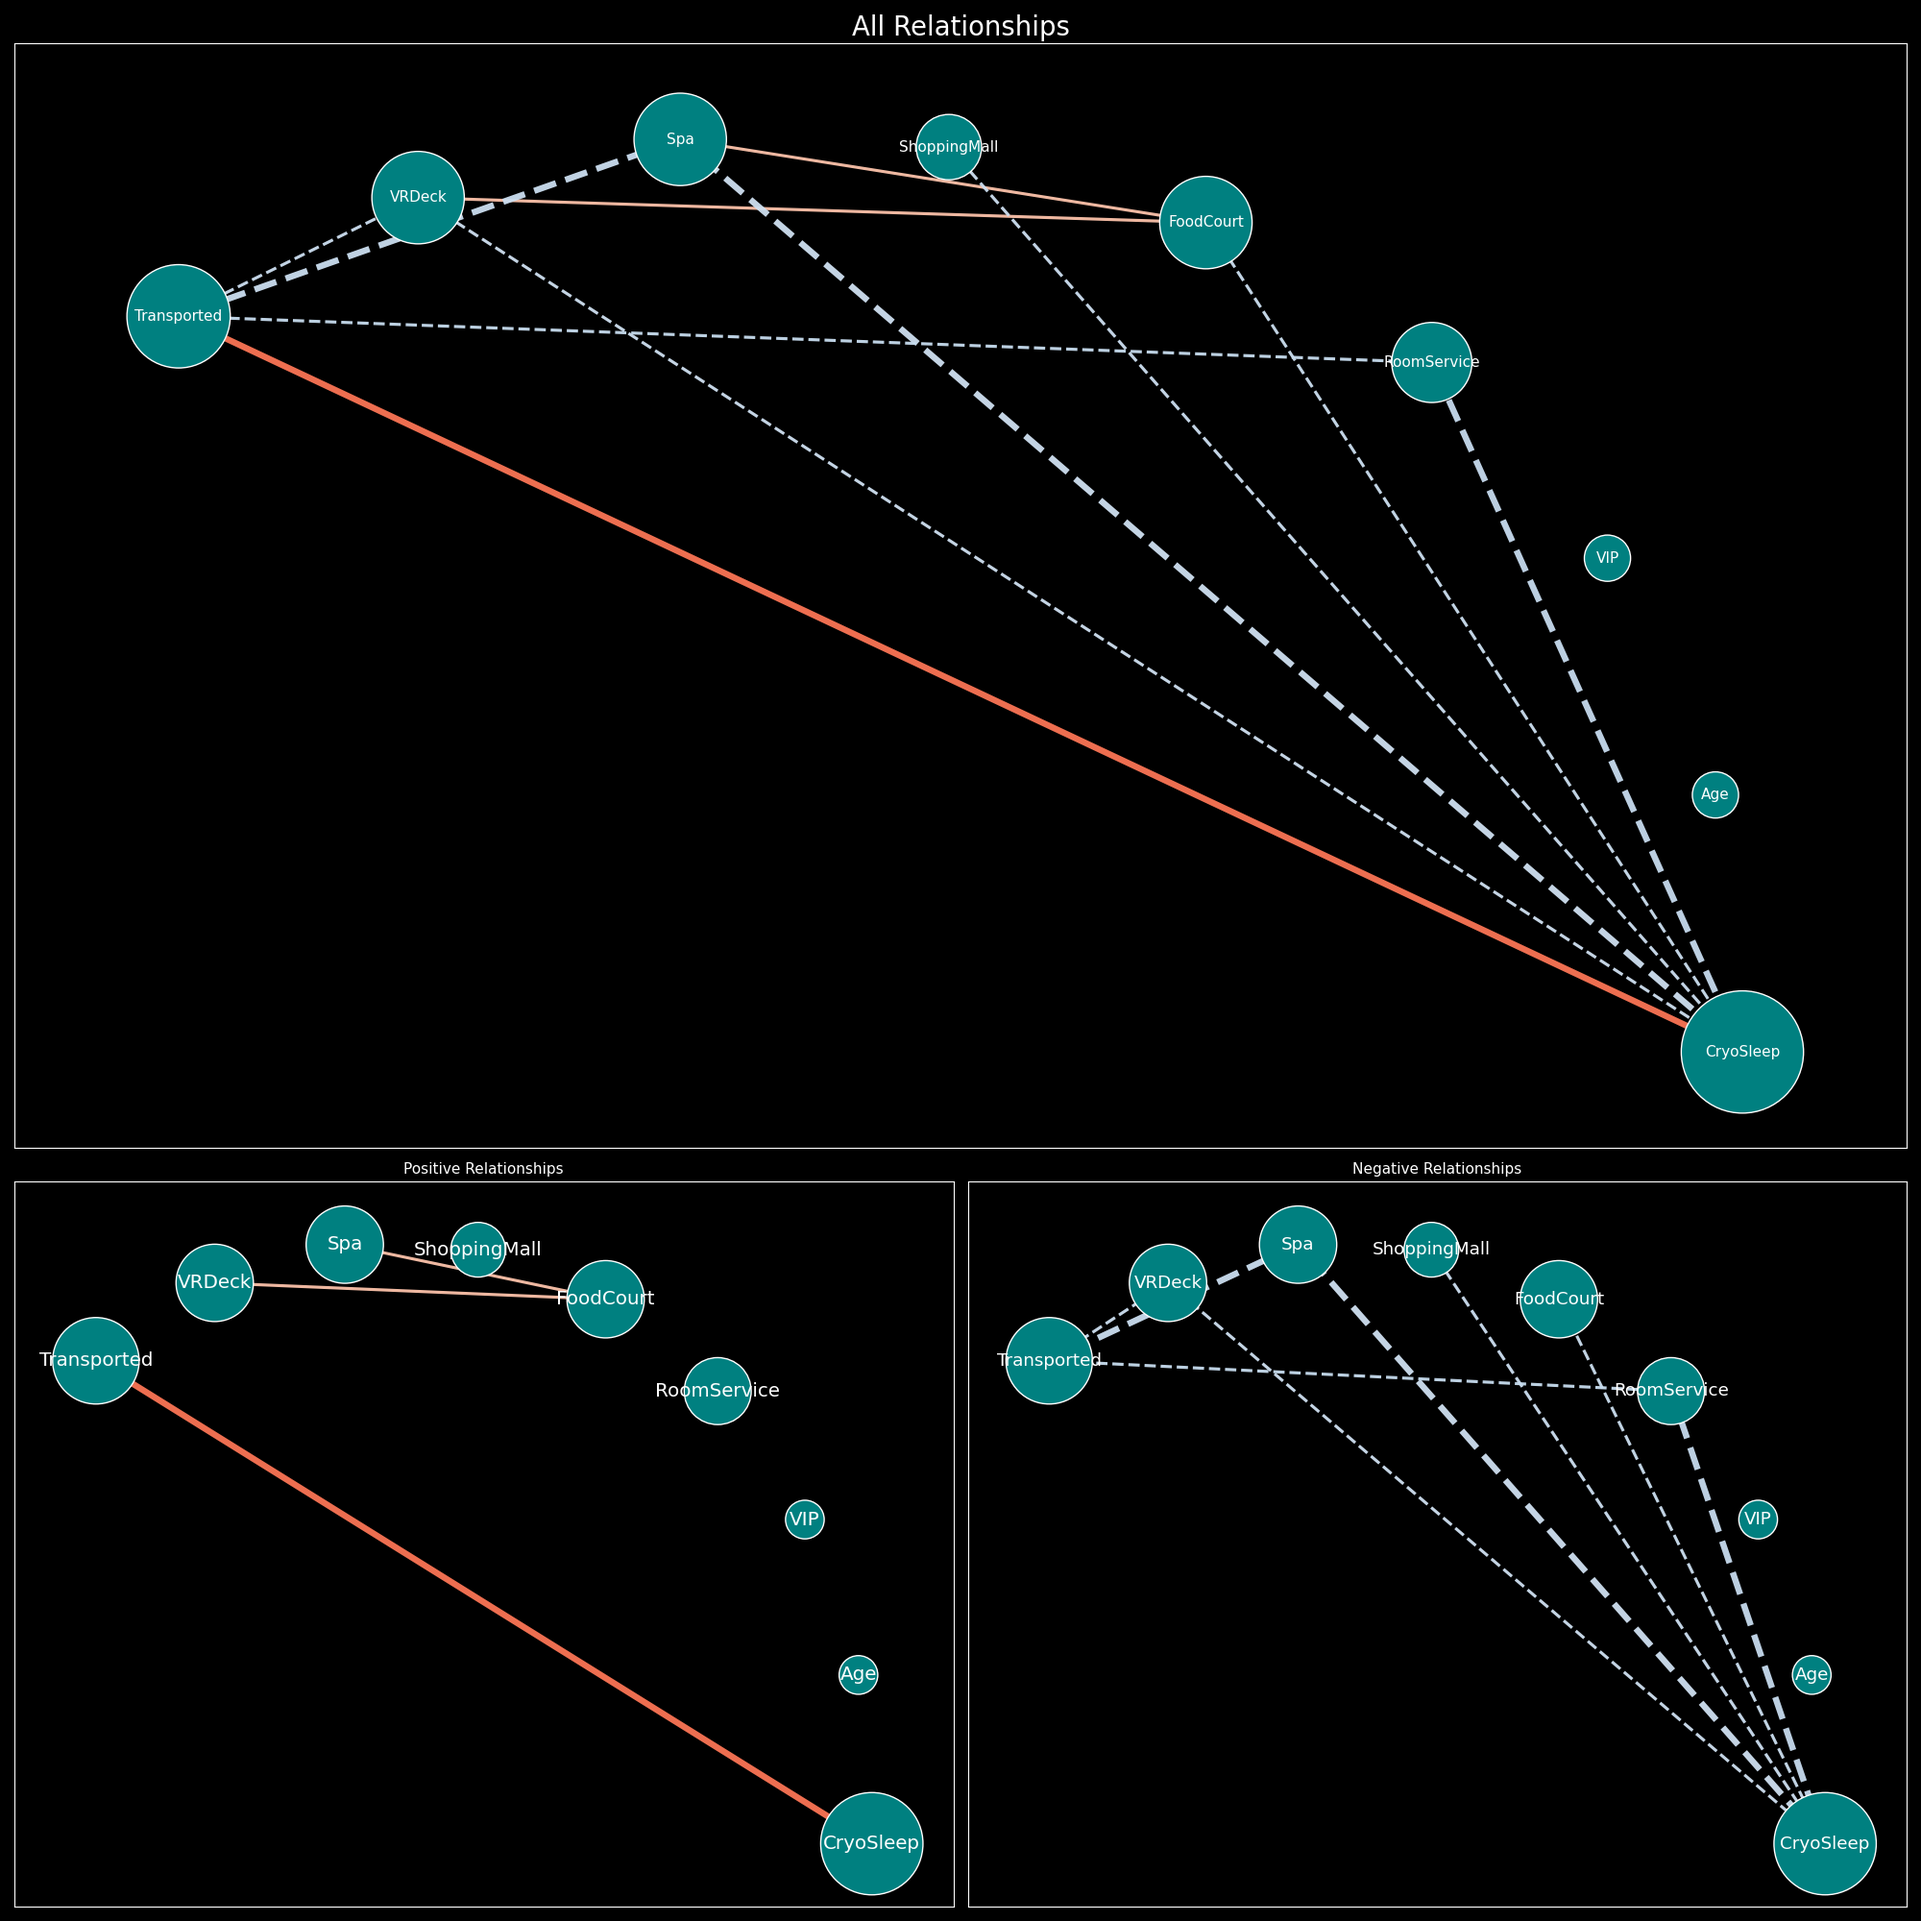
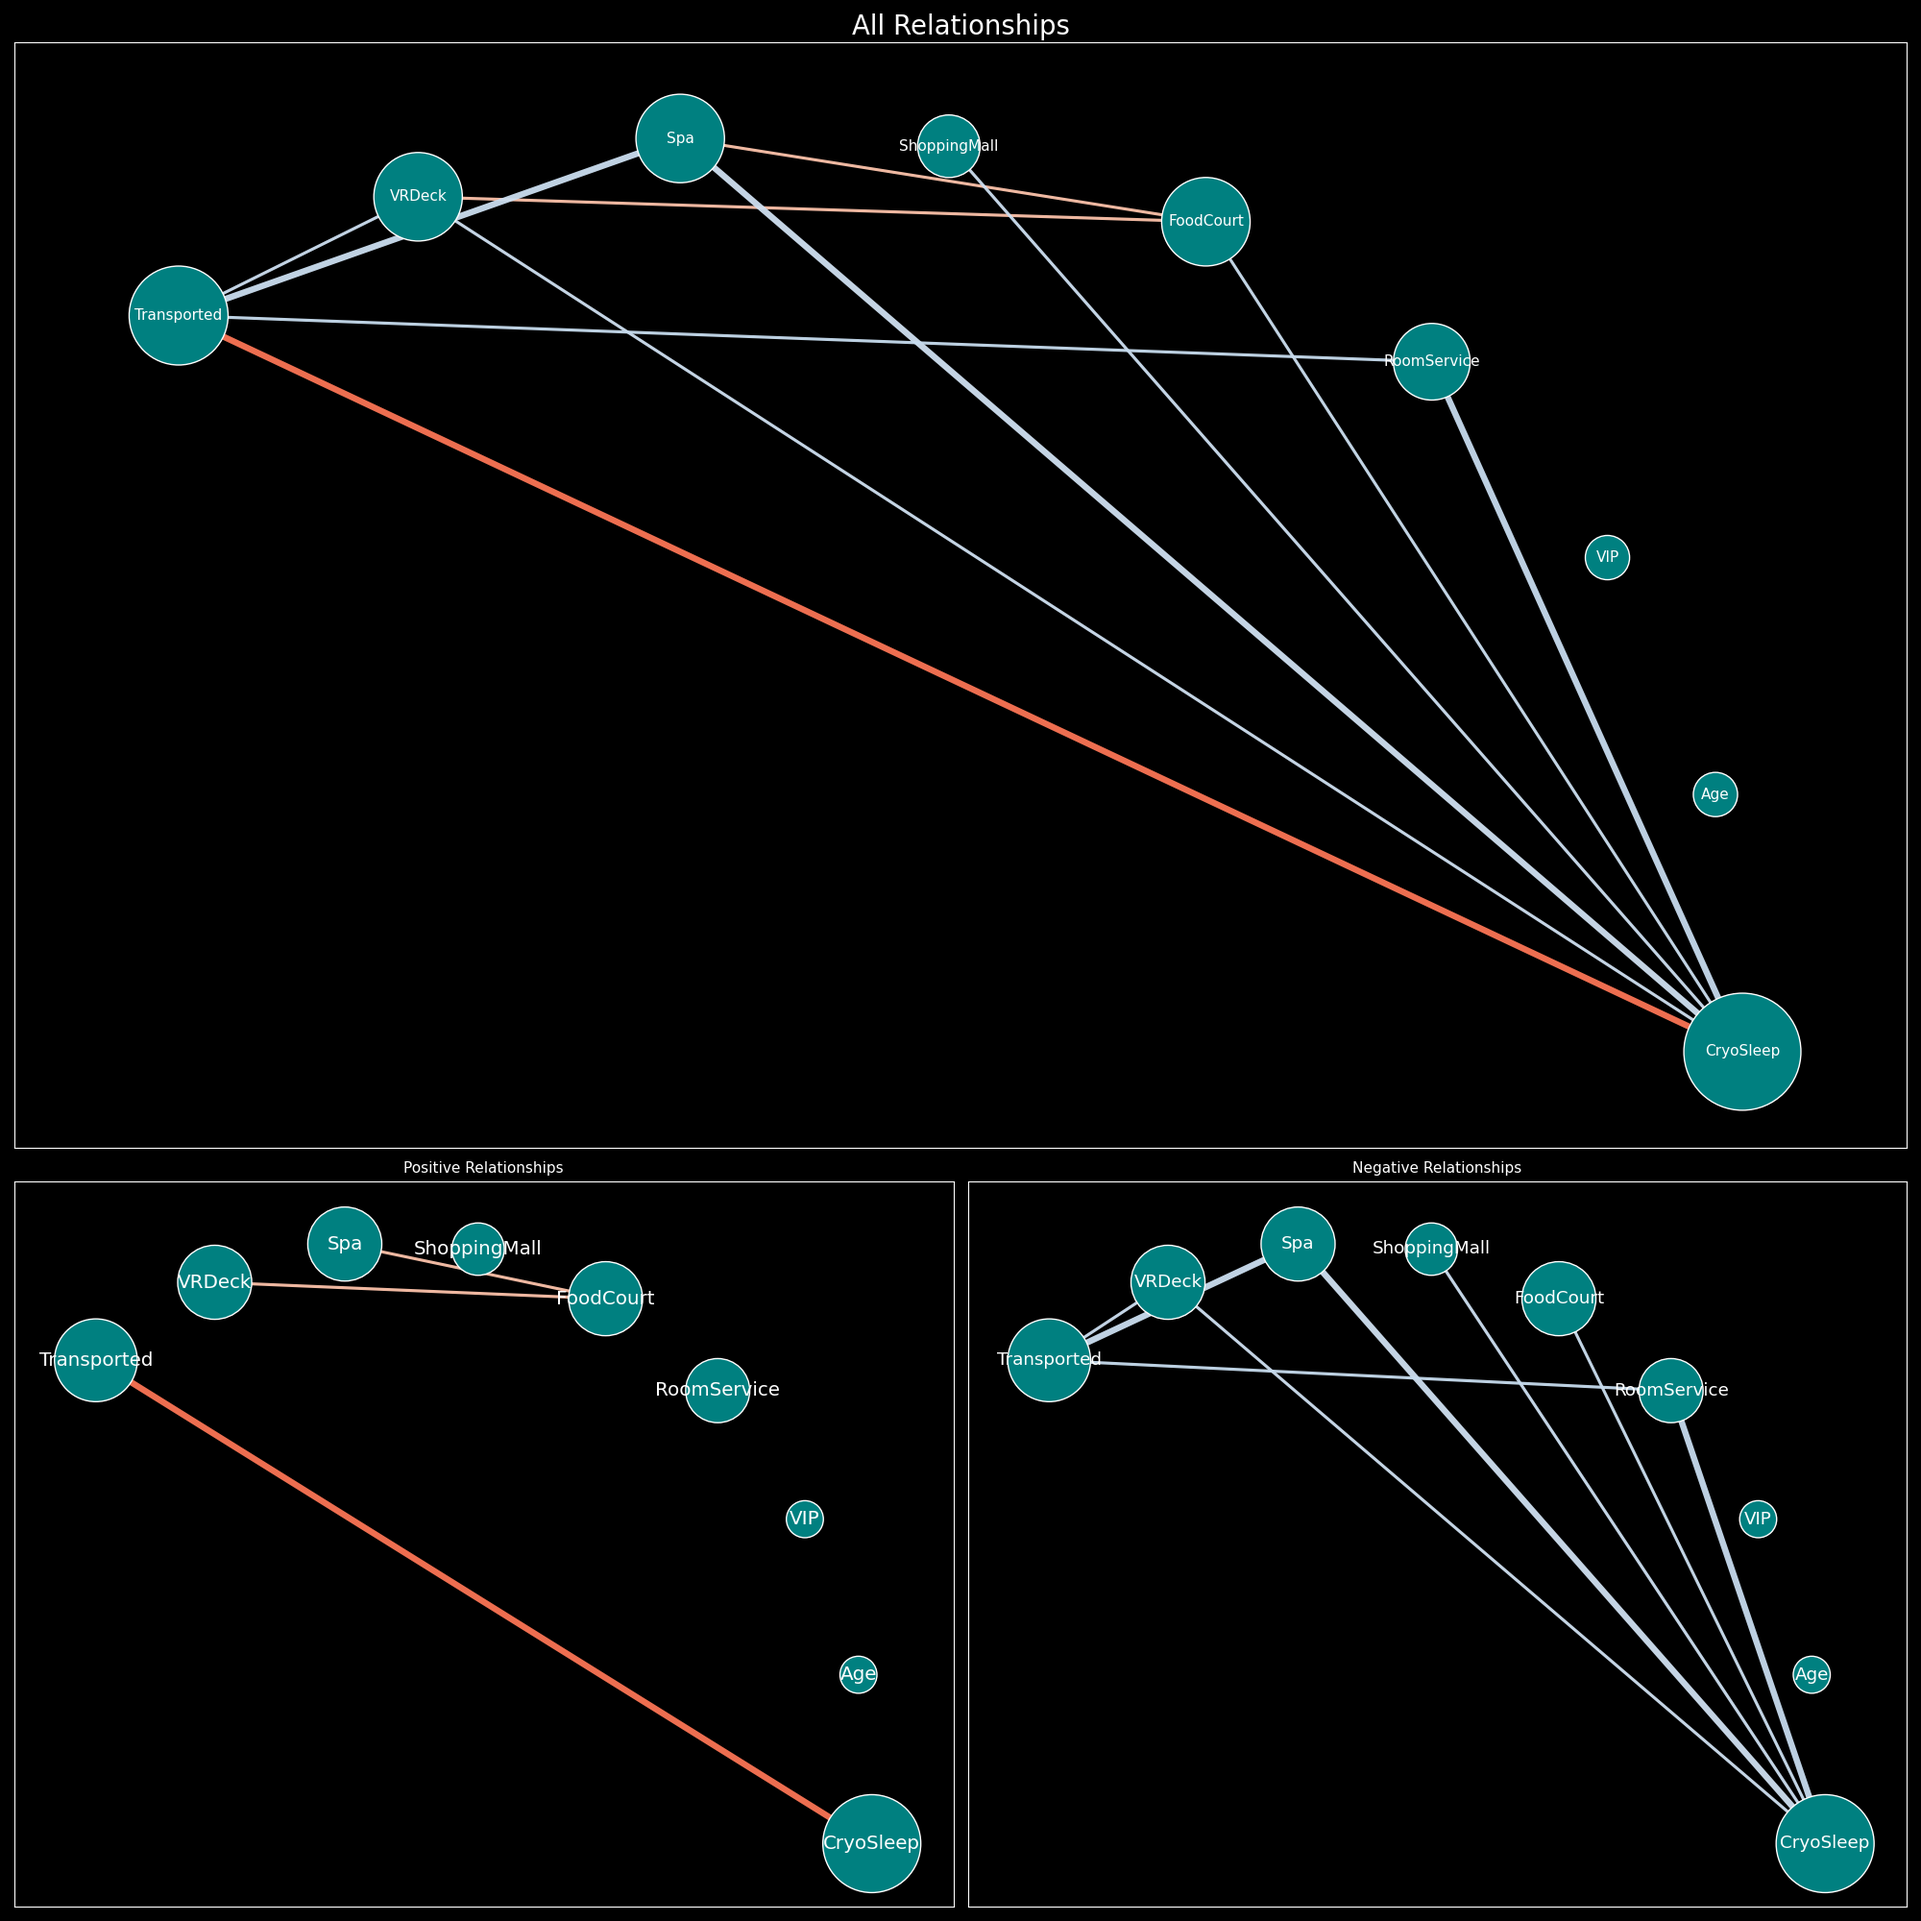
update

diff --git a/sample/sample_code.py b/sample/sample_code.py
@@ -1,0 +1,20 @@
+import pandas as pd
+import numpy as np
+from graphy import graphy
+
+df = pd.read_csv('../data/spaceship-titanic.csv')
+features = ['CryoSleep', 'Age', 'VIP', 'RoomService',
+            'FoodCourt', 'ShoppingMall', 'Spa', 'VRDeck',
+            'Transported']
+
+df = df.loc[:, features]
+df = df.dropna(axis=0)
+df = df.astype(np.float32)
+print('*' * 100)
+print(f"N-Size : {df.shape[0]}")
+print('*' * 100)
+
+d = graphy.Graphier(df, target='Transported')
+
+d.build_graph(statistics='correlation', method='pearson', corr_threshold=0.15)
+d.draw_graph(path_to_save='../sample_img/target.png', node_size=11, font_size=1.1)

diff --git a/graphy/graphy.py b/graphy/graphy.py
@@ -171,7 +171,6 @@ class Graphier:
             edge_vmax=0,
             edge_color=negative_weights,
             edge_cmap=plt.cm.Blues_r,
-            style="dashed",
             ax=ax0,
         )
 
@@ -251,7 +250,6 @@ class Graphier:
             edge_vmax=0,
             edge_color=negative_weights,
             edge_cmap=plt.cm.Blues_r,
-            style="dashed",
             ax=ax2,
         )
         nx.draw_networkx_labels(

diff --git a/README.md b/README.md
@@ -40,8 +40,6 @@ Instead, all the variables will be located with circular layout.
 - pandas
 - numpy
 - networkx
-- graphviz
-- pygraphviz
 - matplotlib
 
 ## Future Updates
